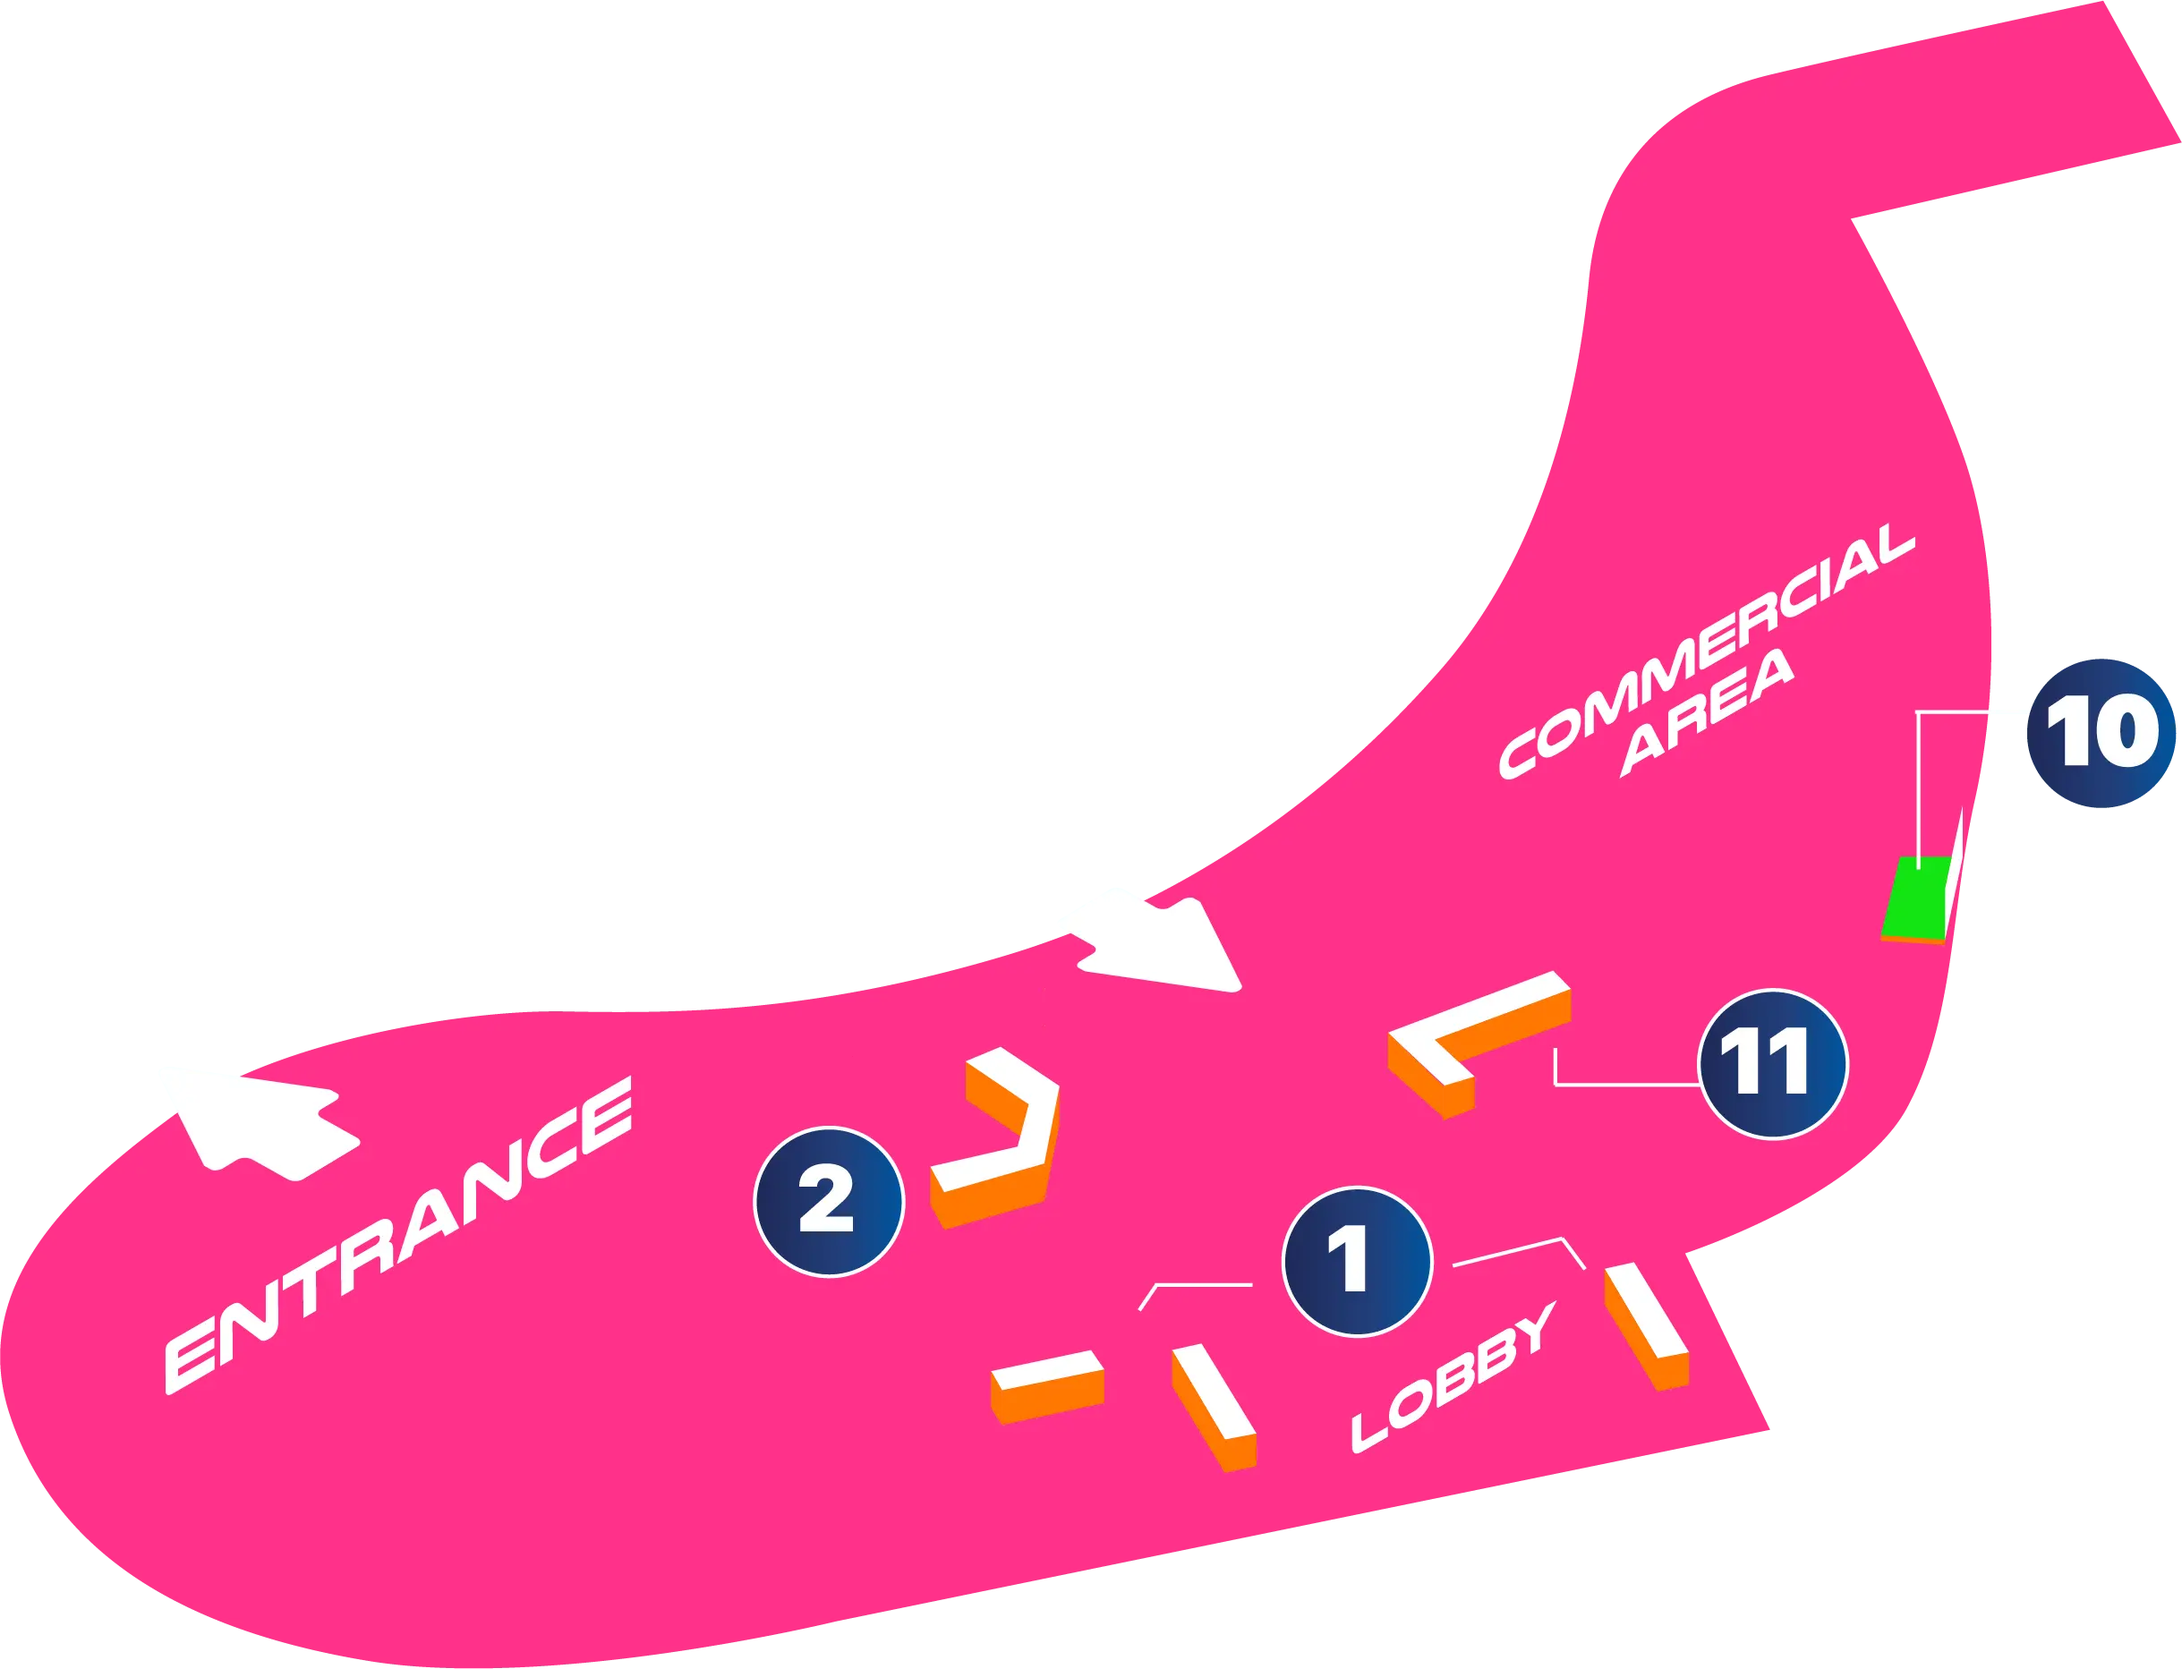
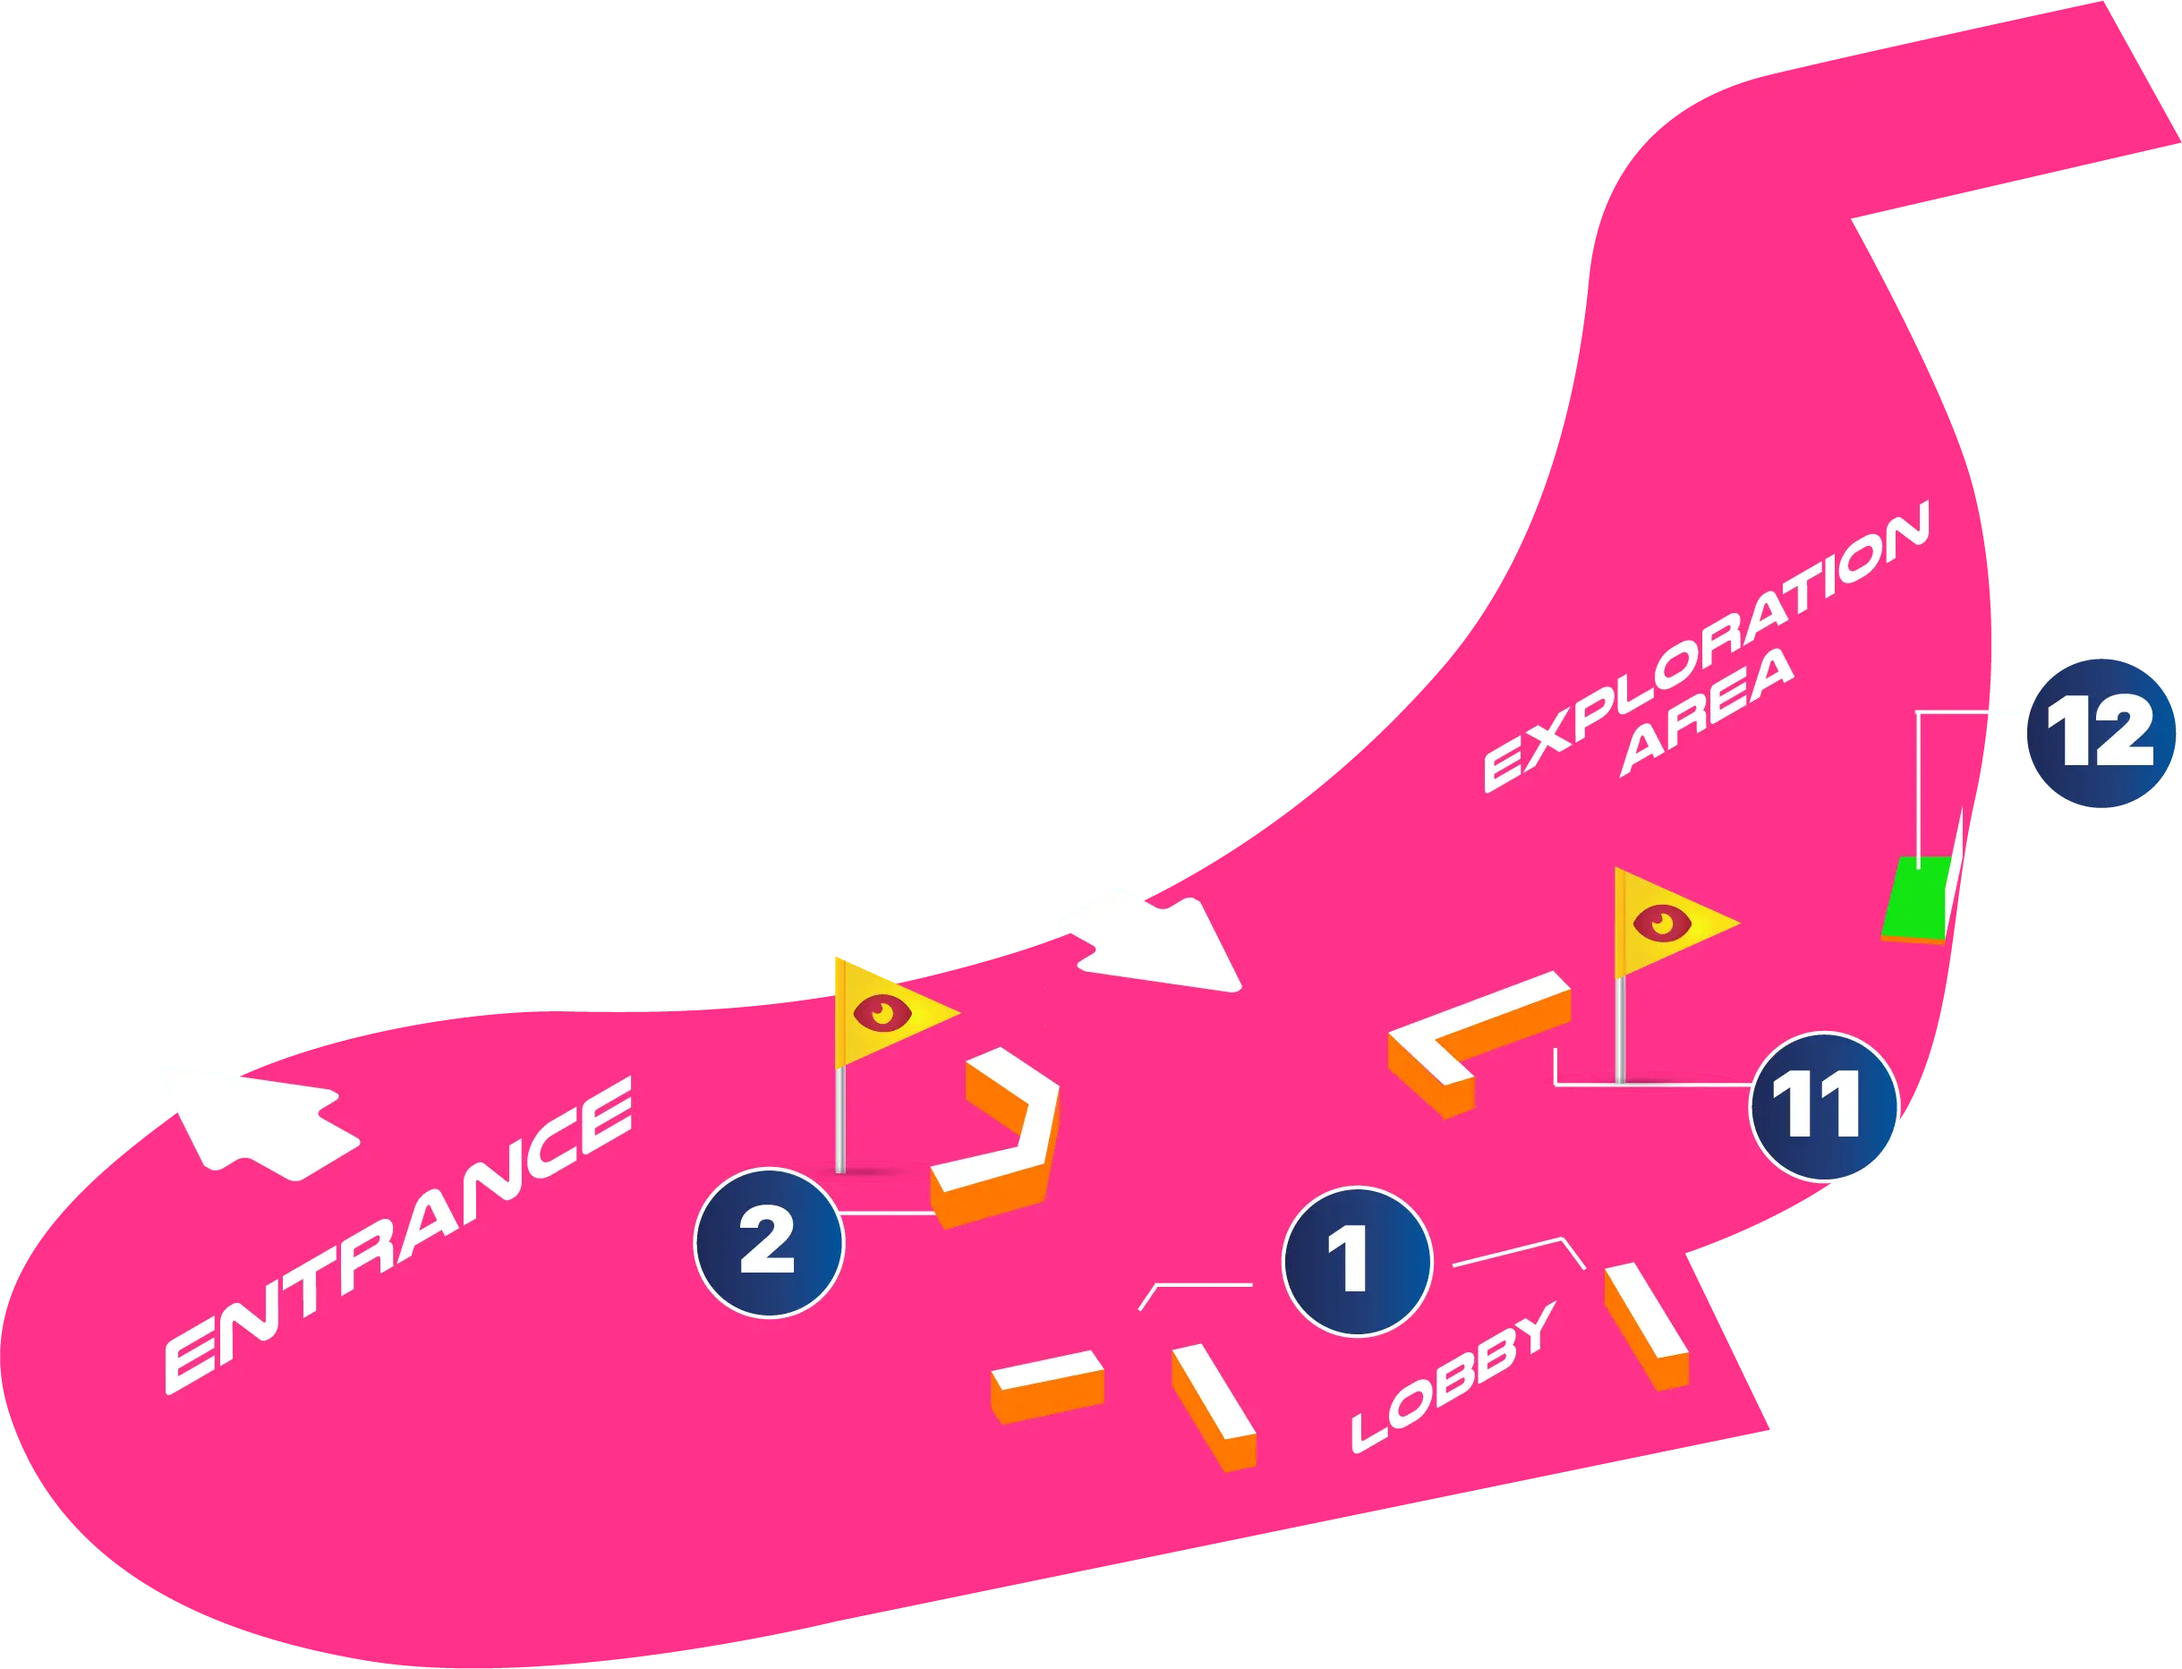
revised

diff --git a/index.html b/index.html
@@ -15,8 +15,8 @@
     <link rel="stylesheet" href="assets/css/animate.css" />
     <link rel="stylesheet" href="assets/css/aos.css">
     <link rel="stylesheet" href="assets/css/countdown.css">
-    <link rel="stylesheet" href="assets/css/style.css">
-    <link rel="stylesheet" href="assets/css/mobile-style.css">
+    <link rel="stylesheet" href="assets/css/style-29092023.css">
+    <link rel="stylesheet" href="assets/css/mobile-style-29092023.css">
 
     <script src="assets/js/aos.js"></script>
     <script src="assets/js/sweetalert.js"></script>
@@ -26,8 +26,10 @@
 <body>
     <section id="stemWonderlab">
         <div class="top-button position-fixed">
-            <a href="#home" class="btn rounded-circle shadow" style="background:#FFFF00;">
-                <i class="bi bi-arrow-up"></i>
+            <a href="#home" class="btn rounded-circle shadow py-2" style="background:#FF7801;">
+                <strong>
+                    <i class="bi bi-arrow-up"></i>
+                </strong>
             </a>
         </div>
         <nav id="navbar" class="navbar navbar-expand-lg bg-eduall fixed-top shadow">
@@ -995,9 +997,9 @@
                     </div>
                     <div class="col-md-8 mt-5" data-aos="fade-up">
                         <div class="mb-3 talks">
-                            <img loading="lazy" src="assets/img/TALKS/talks 1.png" alt="STEM+ Wonderlab"
+                            <img loading="lazy" src="assets/img/TALKS/Talks 1.webp" alt="STEM+ Wonderlab"
                                 class="w-100 d-md-block d-none">
-                            <img loading="lazy" src="assets/img/TALKS/Talks 1 mobile ver.png" alt="STEM+ Wonderlab"
+                            <img loading="lazy" src="assets/img/TALKS/Talks 1 mobile ver.webp" alt="STEM+ Wonderlab"
                                 class="w-100 d-md-none d-block">
                         </div>
                         <div class="mb-3 talks">
@@ -1447,21 +1449,27 @@
                         <div class="row g-4 row-cols-md-3 row-cols-2 g-3">
                             <div class="col learning">
                                 <img src="assets/img/STEM-LEARNING/stem-1.png" alt="STEM+ Wonderlab" class="w-100">
+                                Programming and Robotics
                             </div>
                             <div class="col learning">
                                 <img src="assets/img/STEM-LEARNING/stem-2.png" alt="STEM+ Wonderlab" class="w-100">
+                                Intro to Applied Sciences
                             </div>
                             <div class="col learning">
                                 <img src="assets/img/STEM-LEARNING/stem-3.png" alt="STEM+ Wonderlab" class="w-100">
+                                Stock Investing
                             </div>
                             <div class="col learning">
                                 <img src="assets/img/STEM-LEARNING/stem-4.png" alt="STEM+ Wonderlab" class="w-100">
+                                Engineering Systems and Design
                             </div>
                             <div class="col learning">
                                 <img src="assets/img/STEM-LEARNING/stem-6.png" alt="STEM+ Wonderlab" class="w-100">
+                                Sustainable Engineering
                             </div>
                             <div class="col learning">
                                 <img src="assets/img/STEM-LEARNING/stem-5.png" alt="STEM+ Wonderlab" class="w-100">
+                                Culinary Arts
                             </div>
                         </div>
                     </div>
@@ -1507,7 +1515,7 @@
                     </div>
                     <div class="col-md-5 my-3">
                         <div class="row ps-md-5 px-2">
-                            <div class="col-6 list-maps">
+                            <div class="col-md-6 list-maps">
                                 <div class="maps3">
                                     <b>
                                         <span class="badge-maps">
@@ -1518,15 +1526,23 @@
                                         Lobby
                                     </p>
                                 </div>
-                                <div class="maps3">
+                                <div class="maps3 position-relative align-items-center">
                                     <b>
                                         <span class="badge-maps">
                                             2
                                         </span>
                                     </b>
-                                    <p>
-                                        Visitor Center
-                                    </p>
+                                    <div class="w-100 d-block ps-md-2 ps-1 mb-0">
+                                        <div class="row mb-0">
+                                            <div class="col-md-9 col-10 mb-0">
+                                                <p>Visitor Center</p>
+                                            </div>
+                                            <div class="col-md-3 col-2 mb-0">
+                                                <img src="assets/img/MAPS/Must visit flag.png" alt="" class="w-75">
+
+                                            </div>
+                                        </div>
+                                    </div>
                                 </div>
                                 <div class="maps1">
                                     <b>
@@ -1569,7 +1585,7 @@
                                     </p>
                                 </div>
                             </div>
-                            <div class="col-6 list-maps">
+                            <div class="col-md-6 list-maps">
                                 <div class="maps2">
                                     <b>
                                         <span class="badge-maps">
@@ -1610,16 +1626,50 @@
                                         Exploration Area
                                     </p>
                                 </div>
-                                <div class="maps3">
+                                <div class="maps3 position-relative align-items-start">
                                     <b>
                                         <span class="badge-maps">
                                             11
                                         </span>
                                     </b>
-                                    <p>
-                                        ALL-in Booth
-                                    </p>
+                                    <div class="w-100 d-block ps-md-2 ps-1">
+                                        <div class="row mb-0 align-items-start pt-1">
+                                            <div class="col-md-9 col-10 mb-0">
+                                                <p>
+                                                    ALL-in Info Centre
+                                                </p>
+                                            </div>
+                                            <div class="col-md-3 col-2 mb-2">
+                                                <img src="assets/img/MAPS/Must visit flag.png" alt="" class="w-75">
+                                            </div>
+                                            <div class="col-12">
+                                                <ul class="m-0 p-0 ps-3">
+                                                    <li>
+                                                        <p>
+                                                            Academic Preparation
+                                                        </p>
+                                                    </li>
+                                                    <li>
+                                                        <p>
+                                                            Career Exploration
+                                                        </p>
+                                                    </li>
+                                                    <li>
+                                                        <p>
+                                                            Integrative Mentoring & Uni Prep
+                                                        </p>
+                                                    </li>
+                                                </ul>
+                                            </div>
+                                        </div>
+                                    </div>
                                 </div>
+                            </div>
+                            <div class="col-12 d-flex align-items-end">
+                                <img src="assets/img/MAPS/Must visit flag.png" alt="" class="me-3" width="25px">
+                                <i>
+                                    Must Visit Booth
+                                </i>
                             </div>
                         </div>
                     </div>

diff --git a/assets/css/mobile-style-29092023.css b/assets/css/mobile-style-29092023.css
@@ -94,6 +94,12 @@
         font-size: .8em !important;
     }
 
+    .learning {
+        font-size: .7em;
+        font-weight: 600;
+        line-height: 1.2;
+    }
+
     .btn-eduall {
         background: rgb(241, 133, 62);
         background: linear-gradient(90deg, rgba(241, 133, 62, 1) 0%, rgba(235, 87, 59, 1) 35%, rgba(232, 62, 57, 1) 100%);
@@ -186,24 +192,24 @@
     }
 
     .badge-maps {
-        width: 25px !important;
-        height: 25px !important;
+        width: 28px !important;
+        height: 28px !important;
         padding: 0 !important;
     }
 
     .list-maps div {
         margin-bottom: 10px;
-        font-size: 14px;
+        font-size: 16px;
     }
 
     .list-maps div b {
-        width: 25% !important;
+        width: 10% !important;
         margin: 0 !important;
         padding: 0 !important;
     }
     
     .list-maps div p {
-        width: 75% !important;
+        width: 90% !important;
         margin: 0;
         padding: 0;
         font-size: .9em !important;

diff --git a/assets/css/style-29092023.css b/assets/css/style-29092023.css
@@ -385,9 +385,17 @@ p span {
     scroll-margin-top: 5vh;
 }
 
+.learning {
+    font-size: 1em;
+    font-weight: 600;
+    color: #26afe5;
+    text-align: center;
+}
+
 .learning img {
     /* cursor: pointer !important; */
     transition: all 0.3s ease-in-out;
+    margin-bottom: 10px;
 }
 
 /* .learning img:hover {
